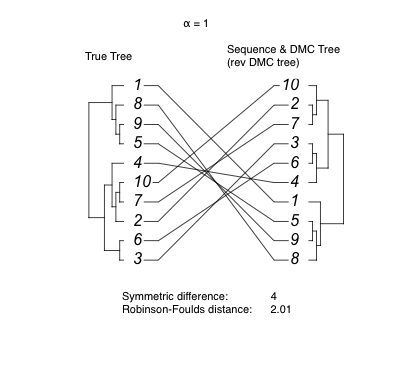
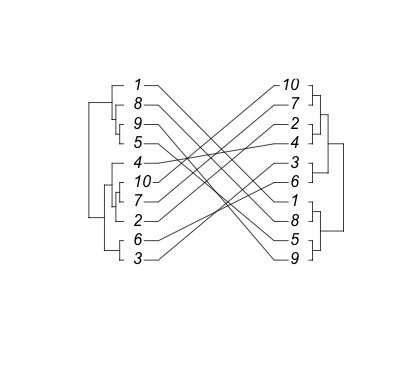
added alpha in README and fixed parentheses to correctly multiply alpha by the distance matrices

diff --git a/framework_v2_Hirak.py b/framework_v2_Hirak.py
@@ -562,7 +562,7 @@ def D_F_matrix(D_Seq,D_net,final_tree, alpha):
                     D_F_names.append(key1)
                 i1 = names_Net.index(key1)
                 j2 = names_Net.index(key2)                              # should be 1-alpha * D_net and alpha * D_seq
-                new_val = (1-alpha*D_net[key1,key2] + alpha*D_Seq[key1,key2])  # alpha is set to 0.5
+                new_val = ((1-alpha) * D_net[key1,key2]) + (alpha * D_Seq[key1,key2])  # alpha is set to 0.5
                 #print new_val,                                          # we can change alpha to choose how much of D_Seq and D_net we want to use
                 temp_row.append(new_val)                                 # although shouldn't the formula in new_val be the same as what's on line 540?
         #print temp_row

diff --git a/README.md b/README.md
@@ -27,11 +27,16 @@ Example:
 
 To run the frame work we need to give following command 
 
->python framework\_v2.py -m dmc \<network file\> \<q_mod\> \<q_con\> \<phylo tree file\>
+>python framework\_v2.py -m dmc \<network file\> \<q_mod\> \<q_con\> \<phylo tree file\> \<alpha\>
+
+Where alpha ranges from 0 to 1 and designates the ratio of the sequence and DMC distance matrices are used
+according to the formula: ((1 - alpha) * D\_net) + (alpha * D\_seq)
+An alpha of 1 would mean none of the DMC network matrix is used, while all of the sequence matrix is used,
+and vice versa for an alpha of 0.
 
 Example: 
 
->python framework\_v2.py -m dmc g1.net 0.4 0.7 ph1.nre
+>python framework\_v2.py -m dmc g1.net 0.4 0.7 ph1.nre 0.5
 
 This exexution would generate two tree files ph1\_dmc.nre,
 ph1\_DNA\_F.nre. The first file is the tree generated by dmc measure
@@ -48,6 +53,5 @@ using the following command
 Example:
 
 >python calc\_distance.py ph1.nre ph\_dmc.nre ph\_seq.nre ph1\_DNA\_F.nre
-
 
 
